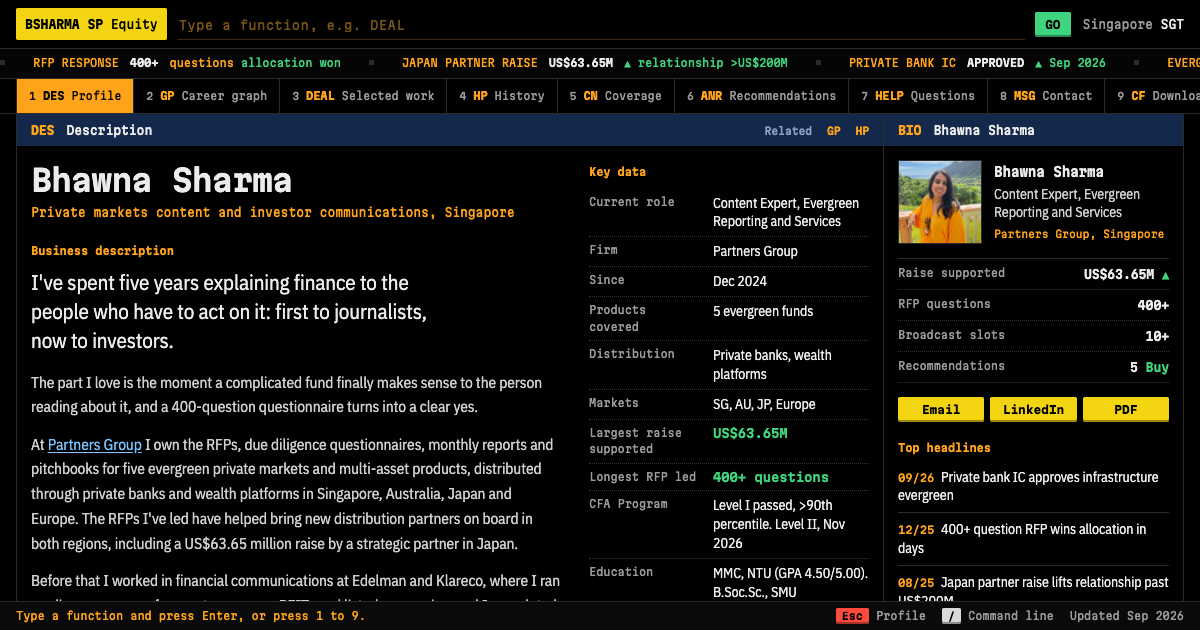
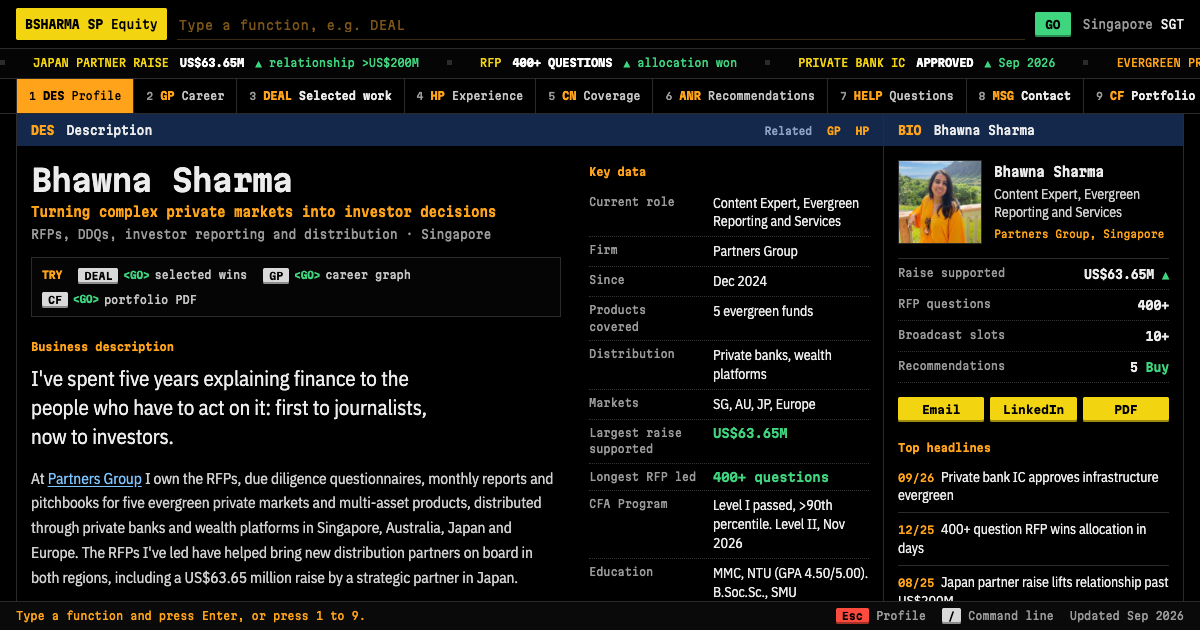
Outcome-led DES and DEAL, clearer nav labels, try keys, ticker ranking

Changed region(s): [[0.0, 0.3317, 0.4625, 0.9349], [0.0308, 0.0905, 1.0, 0.181]]

diff --git a/index.html b/index.html
@@ -66,29 +66,28 @@
 
 <div class="tape" aria-hidden="true">
   <div class="tape-track">
-    <span>RFP RESPONSE <b>400+</b> questions <em class="up">allocation won</em></span>
-    <span>JAPAN PARTNER RAISE <b>US$63.65M</b> <em class="up">&#9650; relationship &gt;US$200M</em></span>
-    <span>PRIVATE BANK IC <b>APPROVED</b> <em class="up">&#9650; Sep 2026</em></span>
-    <span>EVERGREEN PRODUCTS COVERED <b>5</b></span>
-    <span>CRM MIGRATION <b>13,000+</b> contacts</span>
-    <span>LINKEDIN VIDEO ENGAGEMENT <b>10.18%</b> <em class="up">&#9650; vs 2&ndash;6% benchmark</em></span>
+    <span class="hl">JAPAN PARTNER RAISE <b>US$63.65M</b> <em class="up">&#9650; relationship &gt;US$200M</em></span>
+    <span class="hl">RFP <b>400+ QUESTIONS</b> <em class="up">&#9650; allocation won</em></span>
+    <span class="hl">PRIVATE BANK IC <b>APPROVED</b> <em class="up">&#9650; Sep 2026</em></span>
+    <span>EVERGREEN PRODUCTS <b>5</b></span>
+    <span>CRM CONTACTS MIGRATED <b>13,000+</b></span>
     <span>BROADCAST INTERVIEWS <b>10+</b> Bloomberg, CNBC, CNA</span>
     <span>CFA LEVEL I <b>&gt;90th pct</b> <em class="flat">Level II Nov 2026</em></span>
-    <span>REPORT DRAFTS TO SIGN-OFF <b>&le;4</b></span>
+    <span>LINKEDIN VIDEO ENGAGEMENT <b>10.18%</b> <em class="up">&#9650; vs 2&ndash;6% benchmark</em></span>
   </div>
 </div>
 
 <nav class="fkeys" aria-label="Functions">
   <ol>
-    <li><a href="#DES"><kbd>1</kbd><b>DES</b> Profile</a></li>
-    <li><a href="#GP"><kbd>2</kbd><b>GP</b> Career graph</a></li>
-    <li><a href="#DEAL"><kbd>3</kbd><b>DEAL</b> Selected work</a></li>
-    <li><a href="#HP"><kbd>4</kbd><b>HP</b> History</a></li>
-    <li><a href="#CN"><kbd>5</kbd><b>CN</b> Coverage</a></li>
-    <li><a href="#ANR"><kbd>6</kbd><b>ANR</b> Recommendations</a></li>
-    <li><a href="#HELP"><kbd>7</kbd><b>HELP</b> Questions</a></li>
-    <li><a href="#MSG"><kbd>8</kbd><b>MSG</b> Contact</a></li>
-    <li><a href="#CF"><kbd>9</kbd><b>CF</b> Download</a></li>
+    <li><a href="#DES" class="fk"><kbd>1</kbd><b>DES</b> <span>Profile</span></a></li>
+    <li><a href="#GP" class="fk"><kbd>2</kbd><b>GP</b> <span>Career</span></a></li>
+    <li><a href="#DEAL" class="fk pri"><kbd>3</kbd><b>DEAL</b> <span>Selected work</span></a></li>
+    <li><a href="#HP" class="fk"><kbd>4</kbd><b>HP</b> <span>Experience</span></a></li>
+    <li><a href="#CN" class="fk"><kbd>5</kbd><b>CN</b> <span>Coverage</span></a></li>
+    <li><a href="#ANR" class="fk"><kbd>6</kbd><b>ANR</b> <span>Recommendations</span></a></li>
+    <li><a href="#HELP" class="fk"><kbd>7</kbd><b>HELP</b> <span>Questions</span></a></li>
+    <li><a href="#MSG" class="fk pri"><kbd>8</kbd><b>MSG</b> <span>Contact</span></a></li>
+    <li><a href="#CF" class="fk pri"><kbd>9</kbd><b>CF</b> <span>Portfolio PDF &darr;</span></a></li>
   </ol>
 </nav>
 </div>
@@ -102,14 +101,24 @@
     <div class="des">
       <div class="des-main">
         <h1 class="name">Bhawna Sharma</h1>
-        <p class="role">Private markets content and investor communications, Singapore</p>
+        <p class="role">Turning complex private markets into investor decisions</p>
+        <p class="sub">RFPs, DDQs, investor reporting and distribution &middot; Singapore</p>
+        <ul class="try" aria-label="Try a function">
+          <li><a href="#DEAL" data-try="DEAL"><kbd class="k">DEAL</kbd><span class="go-k">&lt;GO&gt;</span> selected wins</a></li>
+          <li><a href="#GP" data-try="GP"><kbd class="k">GP</kbd><span class="go-k">&lt;GO&gt;</span> career graph</a></li>
+          <li><a href="#CF" data-try="CF"><kbd class="k">CF</kbd><span class="go-k">&lt;GO&gt;</span> portfolio PDF</a></li>
+        </ul>
         <h3 class="lbl">Business description</h3>
         <p class="lede">I've spent five years explaining finance to the people who have to act on it: first to journalists, now to investors.</p>
         <div class="prose">
-          <p>The part I love is the moment a complicated fund finally makes sense to the person reading about it, and a 400-question questionnaire turns into a clear yes.</p>
           <p>At <a href="https://www.partnersgroup.com" rel="noopener">Partners Group</a> I own the RFPs, due diligence questionnaires, monthly reports and pitchbooks for five evergreen private markets and multi-asset products, distributed through private banks and wealth platforms in Singapore, Australia, Japan and Europe. The RFPs I've led have helped bring new distribution partners on board in both regions, including a US$63.65 million raise by a strategic partner in Japan.</p>
-          <p>Before that I worked in financial communications at Edelman and Klareco, where I ran media programmes for asset managers, REITs and listed companies, and I completed a master's in media and communication at NTU. I passed CFA Level I above the 90th percentile on my first attempt and sit Level II in November 2026.</p>
-          <p>Outside work you'll find me reading, watching English cinema, or hunting for a new place to try in Singapore.</p>
+          <p>Previously in financial communications at Edelman and Klareco. CFA Level I above the 90th percentile; Level II candidate.</p>
+          <details class="more">
+            <summary>Read full bio</summary>
+            <p>The part I love is the moment a complicated fund finally makes sense to the person reading about it, and a 400-question questionnaire turns into a clear yes.</p>
+            <p>Before that I worked in financial communications at Edelman and Klareco, where I ran media programmes for asset managers, REITs and listed companies, and I completed a master's in media and communication at NTU. I passed CFA Level I above the 90th percentile on my first attempt and sit Level II in November 2026.</p>
+            <p>Outside work you'll find me reading, watching English cinema, or hunting for a new place to try in Singapore.</p>
+          </details>
         </div>
       </div>
       <div class="des-side">
@@ -145,7 +154,7 @@
 
   <!-- GP -->
   <section class="fn" id="GP" aria-labelledby="t-gp" tabindex="-1">
-    <h2 class="bar" id="t-gp"><b>GP</b> Career graph, Aug 2016 to date <span class="rel">Related <a href="#HP">HP</a> <a href="#DEAL">DEAL</a></span></h2>
+    <h2 class="bar" id="t-gp"><b>GP</b> Career, Aug 2016 to date <span class="rel">Related <a href="#HP">HP</a> <a href="#DEAL">DEAL</a></span></h2>
     <p class="intro">Ten years in one line: from reporting financial news, to getting clients into it, to writing the documents investors allocate on. Flags mark the events in the table below. Move across the chart to read any month; select a bar to open it in HP.</p>
     <div class="gp-read" id="gp-read" aria-live="polite" hidden></div>
     <div class="chart-wrap">
@@ -217,6 +226,12 @@
   <section class="fn" id="DEAL" aria-labelledby="t-deal" tabindex="-1">
     <h2 class="bar" id="t-deal"><b>DEAL</b> Selected work <span class="rel">Related <a href="#ANR">ANR</a> <a href="#CN">CN</a></span></h2>
     <p class="intro">Select a row for the full story. Client names are withheld; quotations from internal emails are reproduced with names removed.</p>
+    <ul class="tiles" aria-label="Headline outcomes">
+      <li><a href="#deal-jp"><span class="tk">Japan strategic partner</span><span class="tv">US$63.65M</span><span class="tt">Raise into the flagship evergreen trust, supported by my RFP. Relationship now &gt;US$200M.</span><span class="tc">View case &#9656;</span></a></li>
+      <li><a href="#deal-rfp"><span class="tk">Multi-strategy RFP</span><span class="tv">400+ Qs</span><span class="tt">Led the response for a leading Spanish bank. Allocation won within days.</span><span class="tc">View case &#9656;</span></a></li>
+      <li><a href="#deal-ic"><span class="tk">Infrastructure evergreen</span><span class="tv">IC approved</span><span class="tt">Led the DDQ for a leading Asian private bank. Approved Sep 2026.</span><span class="tc">View case &#9656;</span></a></li>
+      <li><a href="#deal-media"><span class="tk">Asia media programme</span><span class="tv">10+ broadcast</span><span class="tt">Prepared a first-time spokesperson for Bloomberg and CNBC; WSJ coverage followed.</span><span class="tc">View case &#9656;</span></a></li>
+    </ul>
     <div class="dlog" role="list">
       <div class="dhead" aria-hidden="true"><span>Date</span><span>Counterparty</span><span>Mandate</span><span>Size</span><span>Outcome</span></div>
 
@@ -283,7 +298,7 @@
 
   <!-- HP -->
   <section class="fn" id="HP" aria-labelledby="t-hp" tabindex="-1">
-    <h2 class="bar" id="t-hp"><b>HP</b> History <span class="rel">Related <a href="#GP">GP</a></span></h2>
+    <h2 class="bar" id="t-hp"><b>HP</b> Experience <span class="rel">Related <a href="#GP">GP</a></span></h2>
     <div class="hist">
       <details class="hrow" id="hp-pg" open>
         <summary><span class="d">Dec 2024 &ndash; now</span><span class="pos">Content Expert, Evergreen Reporting and Services</span><span class="org">Partners Group</span></summary>
@@ -435,7 +450,7 @@
 
   <!-- CF -->
   <section class="fn" id="CF" aria-labelledby="t-cf" tabindex="-1">
-    <h2 class="bar" id="t-cf"><b>CF</b> Download <span class="rel">Related <a href="#MSG">MSG</a></span></h2>
+    <h2 class="bar" id="t-cf"><b>CF</b> Portfolio PDF <span class="rel">Related <a href="#MSG">MSG</a></span></h2>
     <table class="grid files">
       <thead><tr><th scope="col">Filed</th><th scope="col">Document</th><th scope="col">Format</th><th scope="col"><span class="sr">Action</span></th></tr></thead>
       <tbody>

diff --git a/assets/css/terminal.css b/assets/css/terminal.css
@@ -100,6 +100,8 @@ kbd.k.red { background: var(--down); color: var(--black); }
 .tape b { color: var(--text); font-weight: 600; margin: 0 4px; }
 .tape em { font-style: normal; }
 .tape .flat { color: var(--muted); }
+.tape .hl { color: var(--key); }
+.tape .hl b { color: #FFFFFF; font-weight: 700; }
 @keyframes tape { to { transform: translateX(-50%); } }
 
 /* ---------- function menu ---------- */
@@ -114,9 +116,11 @@ kbd.k.red { background: var(--down); color: var(--black); }
 .fkeys li:first-child a { border-left: 1px solid var(--rule); }
 .fkeys kbd { font: 500 10px var(--mono); color: var(--muted); }
 .fkeys b { color: var(--amber); font-weight: 700; }
+.fkeys a span { color: #C4C4C4; }
+.fkeys a.pri span { color: var(--text); font-weight: 600; }
 .fkeys a:hover { background: #111; color: var(--text); }
 .fkeys a[aria-current="page"] { background: var(--amber); color: var(--black); }
-.fkeys a[aria-current="page"] b, .fkeys a[aria-current="page"] kbd { color: var(--black); }
+.fkeys a[aria-current="page"] b, .fkeys a[aria-current="page"] kbd, .fkeys a[aria-current="page"] span { color: var(--black); }
 
 /* ---------- desk: main screen + BIO card ---------- */
 .desk {
@@ -152,7 +156,21 @@ kbd.k.red { background: var(--down); color: var(--black); }
 /* ---------- DES ---------- */
 .des { display: grid; grid-template-columns: minmax(0, 1fr) 280px; gap: 0 28px; padding: 18px 14px 0; }
 .name { font: 600 30px/1.1 var(--mono); letter-spacing: -0.03em; color: var(--text); }
-.role { color: var(--amber); margin-top: 6px; }
+.role { color: var(--amber); margin-top: 6px; font-size: 13px; font-weight: 600; }
+.sub { color: var(--muted); margin-top: 2px; }
+.try { display: flex; flex-wrap: wrap; gap: 6px 16px; list-style: none; margin: 14px 0 0; padding: 8px 10px; border: 1px solid var(--rule); background: #050505; }
+.try::before { content: "TRY"; color: var(--amber); font-weight: 700; font-size: 10.5px; align-self: center; }
+.try a { display: inline-flex; align-items: center; gap: 5px; color: #C4C4C4; text-decoration: none; font-size: 11px; }
+.try a:hover { color: var(--text); }
+.try a:hover kbd.k { background: var(--amber); }
+.try .go-k { color: var(--up); font-weight: 700; font-size: 10px; }
+.prose .more { margin-top: .8em; }
+.prose .more > summary { cursor: pointer; color: var(--amber); font: 600 11px var(--mono); list-style: none; width: max-content; }
+.prose .more > summary::-webkit-details-marker { display: none; }
+.prose .more > summary::after { content: " \25B8"; display: inline-block; transition: transform .15s; }
+.prose .more[open] > summary::after { transform: rotate(90deg); }
+.prose .more[open] > summary { margin-bottom: .8em; }
+.prose .more > p + p { margin-top: .8em; }
 .lede { font: 400 21px/1.4 var(--sans); color: var(--text); max-width: 36ch; margin-bottom: 14px; }
 .prose { font: 400 15.5px/1.6 var(--sans); color: #CFCFCF; max-width: 66ch; }
 .prose p + p { margin-top: .8em; }
@@ -248,6 +266,15 @@ kbd.k.red { background: var(--down); color: var(--black); }
 
 /* ---------- DEAL log ---------- */
 .dlog { margin: 16px 14px 0; }
+/* DEAL headline tiles: the four outcomes worth clicking */
+.tiles { display: grid; grid-template-columns: repeat(4, minmax(0, 1fr)); gap: 8px; list-style: none; margin: 4px 14px 18px; padding: 0; }
+.tiles a { display: flex; flex-direction: column; height: 100%; padding: 10px 12px; border: 1px solid var(--rule); border-top: 2px solid var(--amber); background: #070707; text-decoration: none; color: var(--text); }
+.tiles a:hover { background: var(--navy); border-color: var(--amber-dim); border-top-color: var(--amber); }
+.tiles .tk { color: var(--amber); font-size: 10.5px; font-weight: 600; text-transform: uppercase; }
+.tiles .tv { color: var(--up); font: 700 22px/1.2 var(--mono); letter-spacing: -0.03em; margin: 6px 0 4px; }
+.tiles .tt { font: 400 14px/1.35 var(--sans); color: #CFCFCF; flex: 1; }
+.tiles .tc { margin-top: 10px; color: var(--key); font-size: 10.5px; font-weight: 700; }
+
 .dhead, .drow > summary {
   display: grid; grid-template-columns: 6.5em minmax(0, 1.3fr) minmax(0, 1.5fr) 9.5em minmax(0, 1fr);
   gap: 12px; align-items: baseline;
@@ -421,6 +448,7 @@ blockquote footer { margin-top: 6px; color: var(--amber); font-size: 10.5px; }
   .gp-read dl div:nth-child(2) { border-right: 0; }
   .gp-read dl div:nth-child(-n+2) { border-bottom: 1px solid var(--rule); }
   .gp-read .gr-hint { display: none; }
+  .tiles { grid-template-columns: repeat(2, minmax(0, 1fr)); }
   .gp-read .gr-flag { height: calc(2.6em + 10px); white-space: normal; }
   .card { display: block; }
   .clock span { display: none; }
@@ -435,6 +463,8 @@ blockquote footer { margin-top: 6px; color: var(--amber); font-size: 10.5px; }
   .fkeys ol { padding: 0; }
   .name { font-size: 24px; }
   .lede { font-size: 19px; }
+  .tiles .tv { font-size: 17px; }
+  .tiles { margin: 4px 12px 16px; }
   .consensus { grid-template-columns: 1fr; gap: 12px; }
   .recs { grid-template-columns: 1fr; }
   .grid td:not(.d):not(.f):not(.r) { font-size: 14px; }
@@ -447,7 +477,7 @@ blockquote footer { margin-top: 6px; color: var(--amber); font-size: 10.5px; }
   .tape { overflow-x: auto; }
   .booted .screen .fn.on { animation: none; }
   .drow .oc::before { transition: none; }
-  .gp .item, .gp .flag, .legend tr[data-flag] { transition: none; }
+  .gp .item, .gp .flag, .legend tr[data-flag], .prose .more > summary::after { transition: none; }
 }
 
 @media print {

diff --git a/assets/js/terminal.js b/assets/js/terminal.js
@@ -4,14 +4,14 @@
 
   var FUNCS = [
     { code: "DES",  label: "Profile",         alias: ["PROFILE", "ABOUT", "BIO", "HOME", "BSHARMA"] },
-    { code: "GP",   label: "Career graph",    alias: ["GRAPH", "CHART", "CAREER", "TIMELINE"] },
+    { code: "GP",   label: "Career",          alias: ["GRAPH", "CHART", "CAREER", "TIMELINE"] },
     { code: "DEAL", label: "Selected work",   alias: ["WORK", "WINS", "CASES", "DEALS", "RFP"] },
-    { code: "HP",   label: "History",         alias: ["HISTORY", "CV", "RESUME", "EXPERIENCE", "JOBS"] },
+    { code: "HP",   label: "Experience",      alias: ["HISTORY", "CV", "RESUME", "EXPERIENCE", "JOBS"] },
     { code: "CN",   label: "Coverage",        alias: ["NEWS", "MEDIA", "COVERAGE", "PRESS", "TOP"] },
     { code: "ANR",  label: "Recommendations", alias: ["RECS", "RECOMMENDATIONS", "REFERENCES", "REVIEWS"] },
     { code: "HELP", label: "Questions",       alias: ["FAQ", "QUESTIONS", "?"] },
     { code: "MSG",  label: "Contact",         alias: ["CONTACT", "EMAIL", "HIRE", "IB", "CALL"] },
-    { code: "CF",   label: "Download",        alias: ["PDF", "DOWNLOAD", "FILES", "PORTFOLIO"] }
+    { code: "CF",   label: "Portfolio PDF",   alias: ["PDF", "DOWNLOAD", "FILES", "PORTFOLIO"] }
   ];
   var IGNORE = { BSHARMA: 0, SP: 1, EQUITY: 1, GO: 1, "<GO>": 1 };
   var DEFAULT_STATUS = "Type a function and press Enter, or press 1 to 9.";
@@ -240,6 +240,20 @@
         note("Could not send. Please email bhawna98@hotmail.com instead.", "err");
       })
       .then(function () { sendBtn.disabled = false; });
+  });
+
+  // ---------- DES: "try" keys type the function into the command line, then run it ----------
+  document.querySelectorAll("[data-try]").forEach(function (a) {
+    a.addEventListener("click", function (e) {
+      e.preventDefault();
+      var text = a.getAttribute("data-try"), i = 0;
+      if (reduce) { run(text); return; }
+      (function type() {
+        input.value = text.slice(0, ++i);
+        if (i < text.length) return setTimeout(type, 70);
+        setTimeout(function () { input.value = ""; run(text); }, 160);
+      })();
+    });
   });
 
   // ---------- GP: crosshair, highlights and a readout strip ----------

diff --git a/scripts/test.py b/scripts/test.py
@@ -163,6 +163,19 @@ with sync_playwright() as pw:
             check(f"gp {w} no hscroll",pg.evaluate("document.documentElement.scrollWidth")<=w)
         check(f"gp {w} no errors",not errs,str(errs))
         ctx.close()
+    # DES try keys, bio toggle, DEAL tiles
+    for w,h in [(1440,900),(390,844)]:
+        ctx=b.new_context(viewport=dict(width=w,height=h)); pg=ctx.new_page(); pg.goto(base); pg.wait_for_timeout(1300)
+        check(f"{w} full bio collapsed",not pg.is_visible(".prose .more p"))
+        pg.click(".prose .more summary"); check(f"{w} full bio opens",pg.is_visible(".prose .more p"))
+        pg.click('[data-try="DEAL"]'); pg.wait_for_timeout(700)
+        check(f"{w} try DEAL",pg.evaluate("document.querySelector('.fn.on').id")=="DEAL")
+        check(f"{w} tiles 4",pg.eval_on_selector_all(".tiles a","e=>e.length")==4)
+        check(f"{w} tiles no overflow",pg.evaluate("[...document.querySelectorAll('.tiles .tv')].every(e=>e.scrollWidth<=e.clientWidth+1)"))
+        pg.click('.tiles a[href="#deal-rfp"]'); pg.wait_for_timeout(500)
+        check(f"{w} tile opens case",pg.evaluate("document.getElementById('deal-rfp').open"))
+        check(f"{w} no hscroll DEAL tiles",pg.evaluate("document.documentElement.scrollWidth")<=w)
+        ctx.close()
     # contact form: Web3Forms is mocked, nothing is really sent
     ctx=b.new_context(); pg=ctx.new_page(); pg.goto(base+"#MSG"); pg.wait_for_timeout(400)
     sent=[]; reply={"ok":True}

diff --git a/README.md b/README.md
@@ -1,7 +1,7 @@
 # Bhawna Sharma: terminal edition
 
 A second version of the portfolio, styled as a Bloomberg terminal. Same content and
-confidentiality rules as `../website`. Plain HTML/CSS/JS, no build step, ready for GitHub Pages.
+confidentiality rules as `../website`. Plain HTML/CSS/JS, no build step, hosted on GitHub Pages.
 
 ## How it works
 
@@ -19,7 +19,8 @@ confidentiality rules as `../website`. Plain HTML/CSS/JS, no build step, ready f
 |---|---|
 | `index.html` | All content. |
 | `assets/css/terminal.css` | Styles. Colours are defined once at the top. |
-| `assets/js/terminal.js` | Command line, shortcuts, clock, ticker, coverage filters, email composer. |
+| `assets/js/terminal.js` | Command line, shortcuts, clock, ticker, coverage filters, contact form, career-graph crosshair. |
+| `assets/js/analytics.js` | Google Analytics. The measurement ID is set once at the top; each function is reported as its own page (`/GP`, `/DEAL`...). Off on localhost. |
 | `assets/fonts/` | Martian Mono and IBM Plex Sans Condensed, self-hosted (SIL Open Font License, included). |
 | `Bhawna-Sharma-Portfolio.pdf` | Copied from `../website` (rebuild there, then copy here). |
 | `scripts/test.py` | 220+ Playwright checks: every function, command line, aliases, autocomplete, deep links, filters, no-JS and reduced-motion fallbacks, three screen sizes. |
